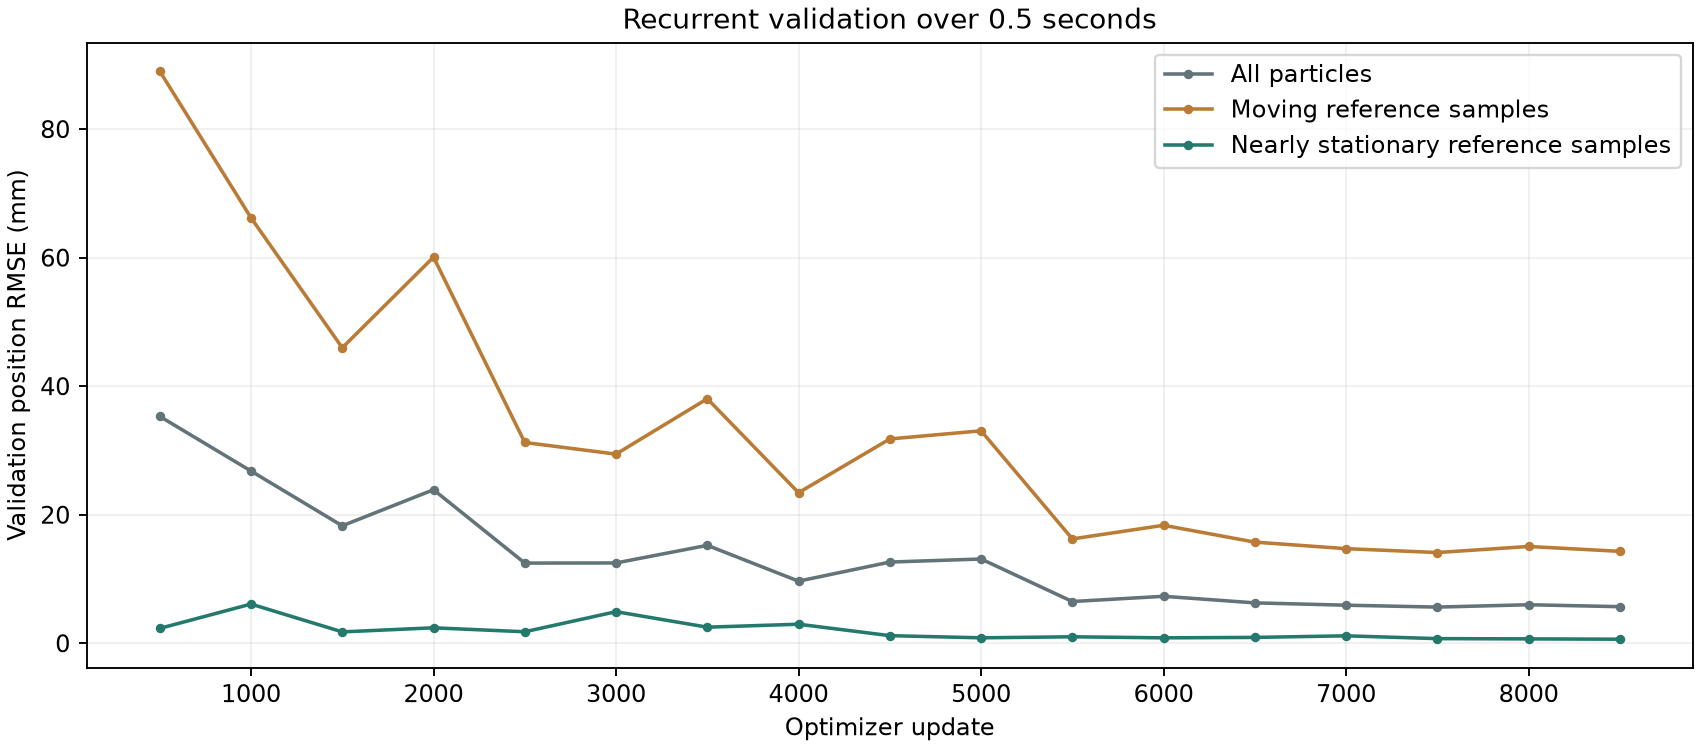
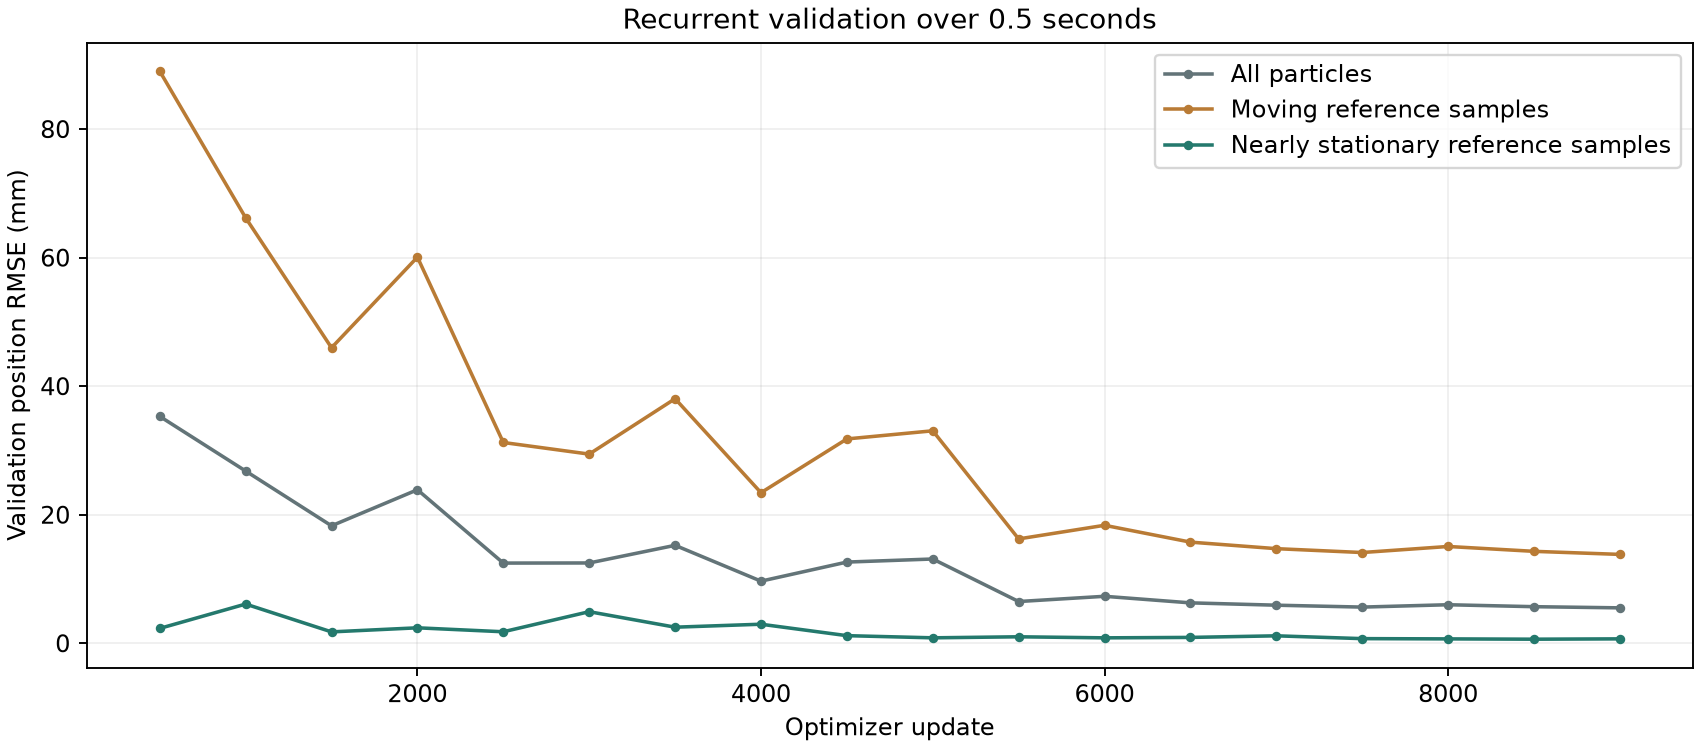
Update long-horizon Transolver progress (RUNNING)

diff --git a/transolver_long_horizon.html b/transolver_long_horizon.html
@@ -4,7 +4,7 @@
 <nav><a href="index.html">Methodology</a><a href="transolver.html">Transolver baseline</a><a href="gnn-v2.html">GNN v2</a></nav>
 <p class="tag">PARTICLE MOTION / RECURRENT TRAINING</p><h1>Transolver: 0.5-second training horizon</h1>
 <p class="lead">Reduce unwanted motion of settled material while retaining particle motion caused by the rigid box.</p>
-<div class="status"><strong>RUNNING</strong><p>Latest saved validation: update 8,500 / 10,000.</p><p><a href="https://us-west-2-aws.osmo.nvidia.com/workflows/particle-transolver-long-1">OSMO workflow</a> · <a href="https://dashboards.telemetry.dgxc.ngc.nvidia.com/d/workflow_resources/workflow-resources-v2?orgId=46&amp;var-datasource=ae6qyv87oh0cgd&amp;var-cluster=osmogroot-dgxc-k8s-forge-az41-prd1&amp;var-namespace=osmo-prod&amp;var-uuid=04e190c7cffc40b2&amp;from=now-2h&amp;to=now">GPU resource usage</a> · <a href="https://ovx-l40s-03.osmo.nvidia.com/dashboard/#/search?namespace=osmo-prod&amp;q=04e190c7cffc40b2">Task dashboard</a></p><p class="small">Updated 2026-10-20 04:54 UTC. Refresh this page for new checkpoint measurements.</p></div>
+<div class="status"><strong>RUNNING</strong><p>Latest saved validation: update 9,000 / 10,000.</p><p><a href="https://us-west-2-aws.osmo.nvidia.com/workflows/particle-transolver-long-1">OSMO workflow</a> · <a href="https://dashboards.telemetry.dgxc.ngc.nvidia.com/d/workflow_resources/workflow-resources-v2?orgId=46&amp;var-datasource=ae6qyv87oh0cgd&amp;var-cluster=osmogroot-dgxc-k8s-forge-az41-prd1&amp;var-namespace=osmo-prod&amp;var-uuid=04e190c7cffc40b2&amp;from=now-2h&amp;to=now">GPU resource usage</a> · <a href="https://ovx-l40s-03.osmo.nvidia.com/dashboard/#/search?namespace=osmo-prod&amp;q=04e190c7cffc40b2">Task dashboard</a></p><p class="small">Updated 2026-10-20 04:57 UTC. Refresh this page for new checkpoint measurements.</p></div>
 <h2>01 / Experiment</h2><table><tr><th>Setting</th><th>Baseline</th><th>New experiment</th></tr>
 <tr><td>Recurrent training horizon</td><td>4 steps / 0.08 s</td><td>25 steps / 0.5 s</td></tr>
 <tr><td>Loss</td><td>Moving samples weighted 5×; other samples 1×</td><td>Separate group means, equal weight</td></tr>
@@ -29,7 +29,7 @@ Backpropagate through the full sequence; no history reset or detached steps.</pr
 dt = 0.02 s</pre>
 <p>Both groups retain their reference position targets. Nearly stationary does not impose exactly zero motion. If a sequence contains only one group, that group receives the full loss. The grouping is based only on reference motion and does not freeze predicted particles.</p>
 <p>Each GPU trains on one sequence per update. Group normalization is applied within each sequence, then distributed training averages gradients. Recorded rigid-box pose and velocity are inputs at every step. Validation uses 32 fixed sequences at the same 25-step horizon. Checkpoint selection uses the square root of the average of the two pooled group mean squared position errors.</p>
-<h2>03 / Training progress</h2><table><tr><th>Validation measure at 25 steps</th><th>Latest value</th></tr><tr><td>All particle-time samples</td><td>5.693 mm</td></tr><tr><td>Moving reference samples</td><td>14.304 mm</td></tr><tr><td>Nearly stationary reference samples</td><td>0.634 mm</td></tr><tr><td>Balanced checkpoint-selection score</td><td>10.124 mm</td></tr></table><p class="small">Peak allocated PyTorch GPU memory on rank 0: 2.30 GiB. This excludes other processes and allocations outside PyTorch.</p><img src="assets/transolver-long-horizon/training.png" alt="Validation position errors over training updates">
+<h2>03 / Training progress</h2><table><tr><th>Validation measure at 25 steps</th><th>Latest value</th></tr><tr><td>All particle-time samples</td><td>5.510 mm</td></tr><tr><td>Moving reference samples</td><td>13.827 mm</td></tr><tr><td>Nearly stationary reference samples</td><td>0.686 mm</td></tr><tr><td>Balanced checkpoint-selection score</td><td>9.790 mm</td></tr></table><p class="small">Peak allocated PyTorch GPU memory on rank 0: 2.30 GiB. This excludes other processes and allocations outside PyTorch.</p><img src="assets/transolver-long-horizon/training.png" alt="Validation position errors over training updates">
 <p class="small">Do not compare these 25-step validation errors directly with the baseline's four-step validation error. Compare both models at the same evaluation horizon.</p>
 <h2>04 / Matched five-second evaluation</h2><p>Pending. Evaluate the selected checkpoint on the same twelve five-second trajectories as the baseline. Particle predictions are recurrent; recorded box pose and velocity are supplied at each step.</p>
 <h2 id="videos">05 / Prediction videos</h2><p>Scheduled after training: five-second Newton RTX comparisons for continuous dragging and pushing. Video rendering runs locally after the cloud evaluation finishes.</p><p class="small">Left: MPM reference particles. Right: recurrent Transolver particles from the selected long-horizon checkpoint. Both views replay the same recorded box motion. Particle predictions are not reset to MPM. Brown particles, gray box, lighting, camera, and display radius match the baseline videos. This is particle prediction, not force-estimator-driven box motion.</p>
